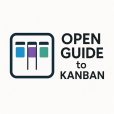
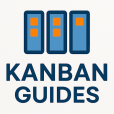
🌐 i18n(kanban-guide): add Spanish translation for Kanban guides
- create Spanish (es-419) versions of Kanban guide and open-guide-for-kanban
- ensure consistency with English versions while adapting for the Spanish-speaking audience

💄 style(site): update main header and card styles

- implement dynamic background color for headers based on guide parameters
- enhance visual consistency across site

🌐 i18n(images): update and relocate Kanban guide images

- rename images for branding consistency
- ensure proper localization and utilization of images across different site sections

🔧 chore(assets): update icons and add new images for branding

- refresh apple icons and favicon for updated branding
- add new Kanban guide logo images

♻ refactor(layout): enhance layout logic for multilingual support

- optimize layout templates for better language handling
- improve guide retrieval process for different locales

diff --git a/site/layouts/index.html b/site/layouts/index.html
@@ -1,5 +1,5 @@
 {{- define "main" }}
-  <section class="section container-fluid main-header">
+  <section class="section container-fluid main-header" style="background-color:#135289;">
     <div class="container my-5">
       <div class="row justify-content-center">
         <div class="col-12 text-center mb-4">
@@ -8,15 +8,21 @@
         </div>
       </div>
       <div class="row">
-        {{- range .Site.Sections }}
+        {{ $sections := .Site.Sections }}
+        {{ range .Site.Home.Translations }}
+          {{ $sections = $sections | lang.Merge .Site.Sections }}
+        {{ end }}
+        {{/* {{ $sections = lang.Merge $defaultSite.sections $sections }} */}}
+        {{- range $sections }}
           {{- if eq .Type "guide" }}
-            <div class="col-12 col-lg-6 col-xl-4 p-3">
+            <div class="col-12 col-lg-6 col-xl-6 p-3">
               <div class="card card-dark h-100">
                 <div class="card-header">
                   <h5 class="card-title text-center mb-0">{{ .Title }}</h5>
+                  <div class="m-1 p-2" style="background-color: {{ .Params.brand.bg_colour | default "#135289" }};"></div>
                 </div>
                 <div class="card-body">
-                  <p>{{ .Params.guide_whatis }}</p>
+                  <p>{{ .Params.guide_overview | markdownify }}</p>
                   <div class="row g-2">
                     <div class="col-12">
                       <div class="d-grid">
@@ -82,7 +88,7 @@
               {{- end }}
             {{- end }}
           </div>
-          <a href="{{ partial "functions/safe-page-link.html" "/" }}"><img src="/images/open-guide-to-kanban-logo.png" class="img-fluid mb-3" alt="{{ .Site.Title }} Creators" /></a>
+          <img src="/images/kanban-guides.png" class="img-fluid mb-3" alt="{{ .Site.Title }} Creators" />
         </div>
         <div class="col-12 col-lg-8 col-xl-6">
           <div>

diff --git a/site/layouts/history/list.html b/site/layouts/history/list.html
@@ -1,5 +1,17 @@
 {{- define "main" }}
-  {{- $guidePage := .Site.GetPage (printf "/%s/guide" .Site.Language.Lang) | default (.Site.GetPage "/guide") }}
+  {{ $targetPath := path.Join .Section "latest" }}
+  {{ $guidePage := site.GetPage $targetPath }}
+
+  {{ if not $guidePage }}
+    {{ $defaultSite := index site.Sites 0 }}
+    {{ $guidePage = $defaultSite.GetPage $targetPath }}
+  {{ end }}
+
+  {{- if not $guidePage }}
+    {{- fmt.Errorf "Guide page not found" }}
+  {{- end }}
+
+
   <section class="container my-5">
     <div class="row mb-4">
       <div class="col-12">

diff --git a/site/layouts/guide/list.html b/site/layouts/guide/list.html
@@ -1,7 +1,8 @@
 {{- define "main" }}
   {{- $guidePage := .Site.GetPage "/guide" }}
   {{- $isComingSoon := and $guidePage $guidePage.Date (lt now $guidePage.Date) (eq hugo.Environment "production") }}
-  <section class="section container-fluid main-header">
+  {{- $bgColor := .Params.brand.bg_colour | default "#135289" }}
+  <section class="section container-fluid main-header" style="background-color: {{ $bgColor }} !important;">
     <div class="container my-5">
       <div class="row">
         <div class="col-12 col-xl-4 p-3">

diff --git a/site/layouts/_partials/components/main-menu.html b/site/layouts/_partials/components/main-menu.html
@@ -1,5 +1,5 @@
 <a href="{{ (.Site.GetPage "/").Permalink }}" class="d-flex align-items-center text-white text-decoration-none" title="{{ .Site.Title }}">
-  <img src="/images/open-guide-to-kanban-logo-dark.png" alt="{{ .Site.Title }}" class="d-inline-block align-text-top me-2" style="max-height: 40px;" />
+  <img src="/images/kanban-guides-logo-dark.png" alt="{{ .Site.Title }}" class="d-inline-block align-text-top me-2" style="max-height: 40px;" />
 </a>
 <ul class="nav nav-pills">
   <li class="nav-item dropdown">

diff --git a/site/static/css/style.css b/site/static/css/style.css
@@ -29,7 +29,6 @@ li input[type="checkbox"] + * {
 }
 
 .main-header {
-  background-color: #135289;
   color: white;
   padding: 10px;
   text-align: center;

diff --git a/site/content/open-guide-for-kanban/latest/index.es-419.md b/site/content/open-guide-for-kanban/latest/index.es-419.md
@@ -32,8 +32,7 @@ lang: es-419
 mainfont: "Times New Roman"
 sansfont: "Arial"
 monofont: "Courier New"
-guide_whatis: |
-  La [Guía Abierta de Kanban](/open-guide-to-kanban/) es una referencia práctica y curada por la comunidad para usar Kanban en el trabajo del conocimiento. Define las prácticas esenciales, medidas y lenguaje para diseñar, ejecutar y mejorar sistemas Kanban. Construida sobre los fundamentos de la [Guía Kanban (2025)](/history/kanban-guide-2025/), esta guía expande su aplicabilidad a través de industrias y contextos de equipos, manteniéndose abierta y adaptable. Está destinada a apoyar a las organizaciones que buscan claridad, consistencia y efectividad en cómo gestionan el flujo de valor.
+
 sitemap:
   priority: 1.0
 ---

diff --git a/site/content/open-guide-for-kanban/latest/index.md b/site/content/open-guide-for-kanban/latest/index.md
@@ -32,8 +32,6 @@ lang: en
 mainfont: "Times New Roman"
 sansfont: "Arial"
 monofont: "Courier New"
-guide_whatis: |
-  The [Open Guide to Kanban](/open-guide-to-kanban/) is a practical, community-curated reference for using Kanban in knowledge work. It defines the essential practices, measures, and language for designing, running, and improving Kanban systems. Built on the foundations of the [Kanban Guide (2025)](/history/kanban-guide-2025/), this guide expands its applicability across industries and team contexts, while remaining open and adaptable. It is intended to support organisations seeking clarity, consistency, and effectiveness in how they manage the flow of value.
 sitemap:
   priority: 1.0
 ---
